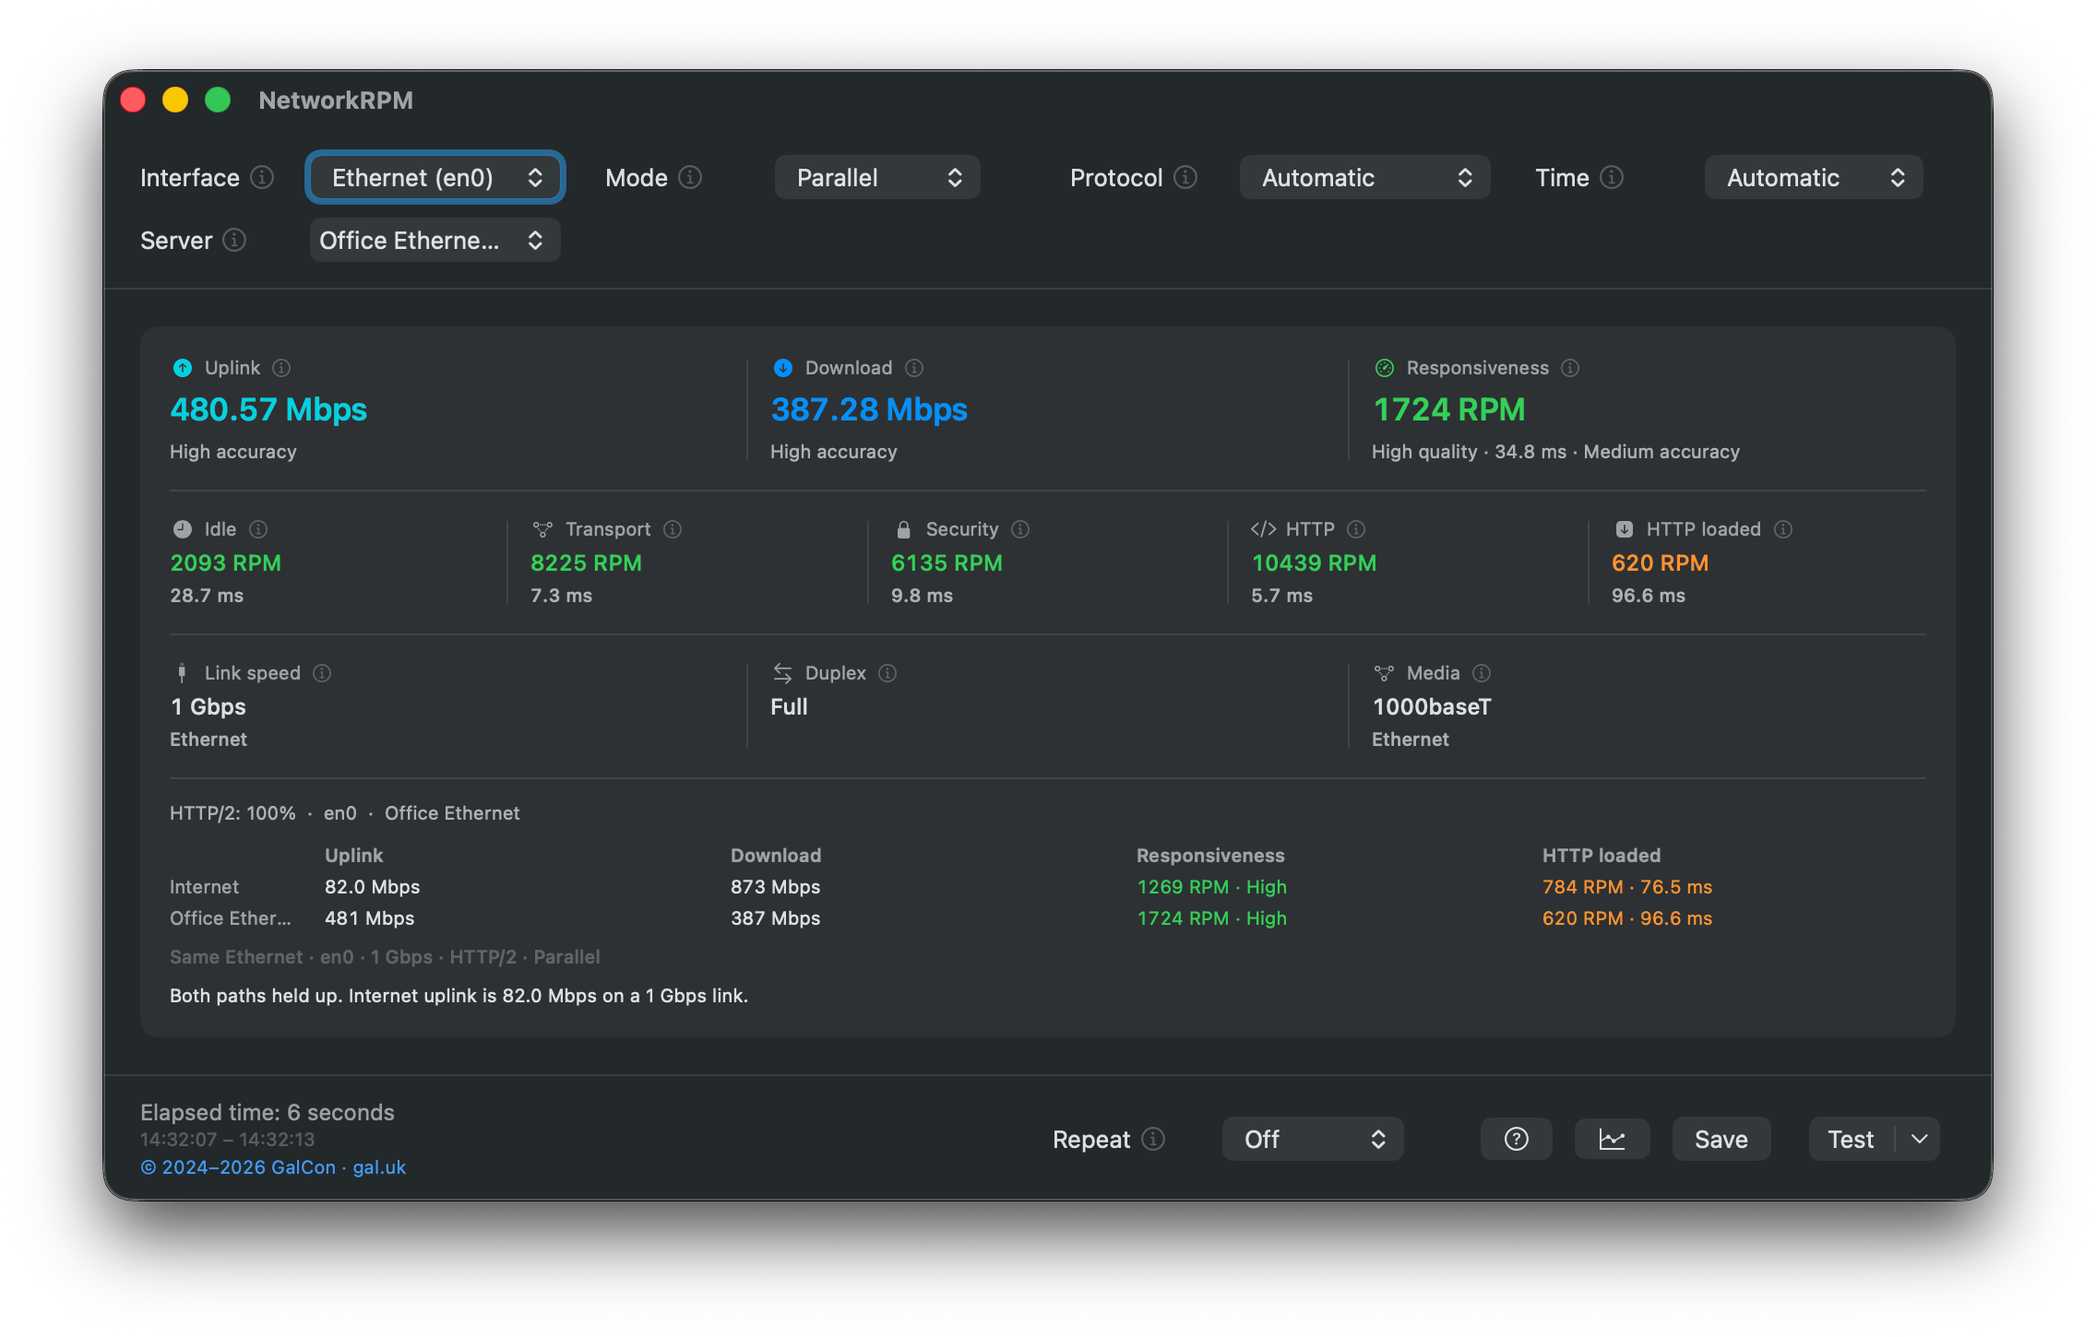
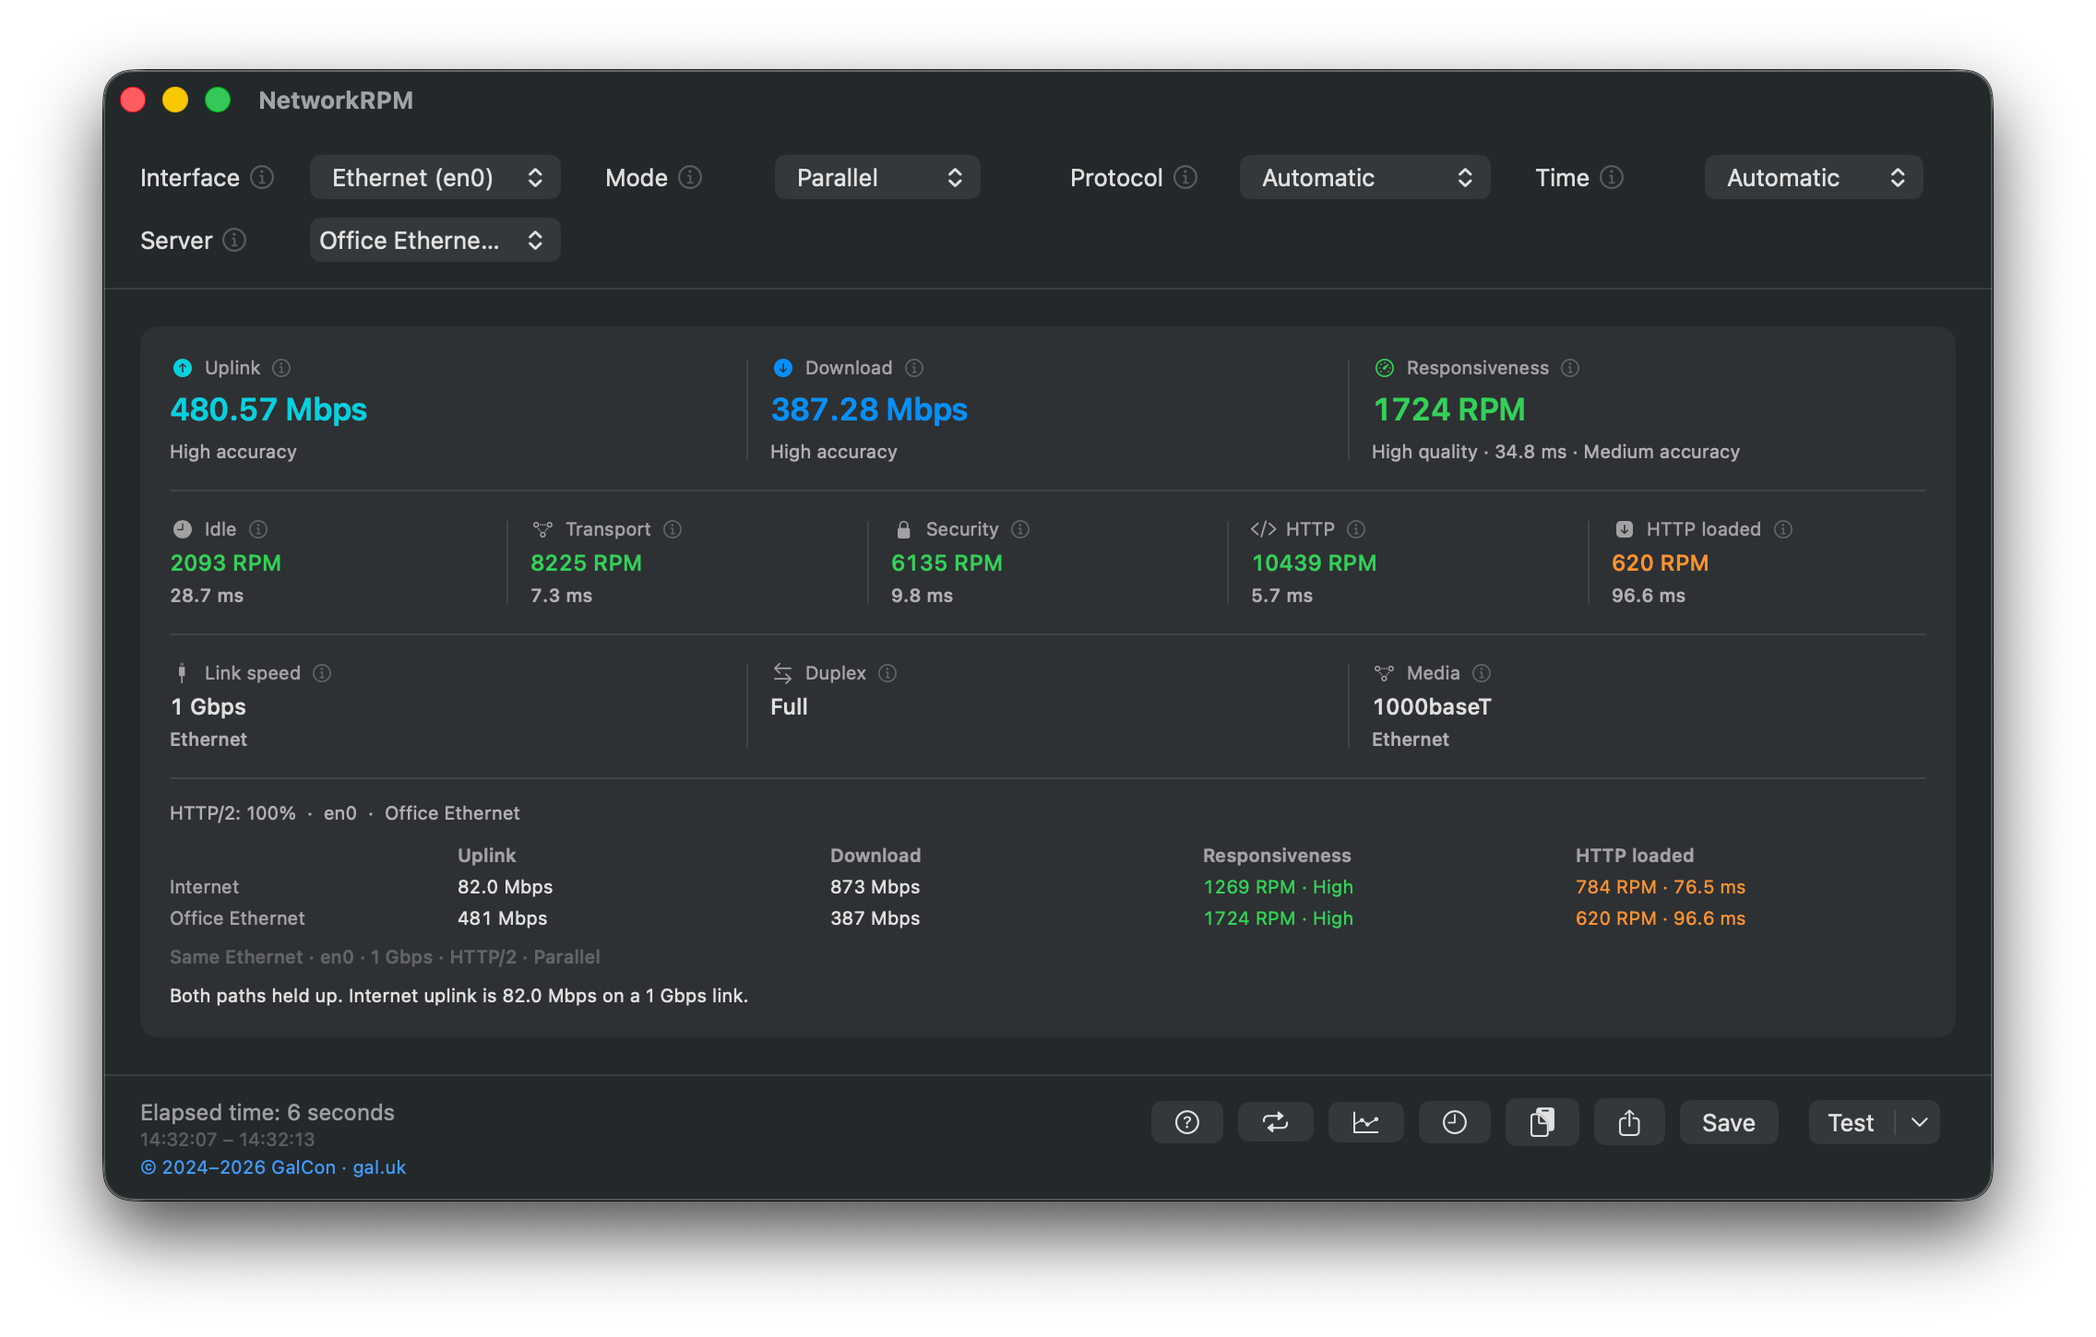
NetworkRPM 2.3.2.104 README and screenshots.

diff --git a/README.md b/README.md
@@ -45,27 +45,28 @@ If you still have the old **NetworkQuality** app, quit it and remove it after in
 
 1. Open **NetworkRPM**.
 2. Adjust options if needed (defaults work out of the box), then click **Test**. Speed and RPM update while the test runs. Click **Stop** to cancel the active run and any remaining repeats; numbers collected so far stay on screen.
-3. **Repeat** (next to Test) schedules multiple runs. When Repeat is on, **Every** sets the idle wait interval between runs. The first **Test** with Repeat on prompts for a CSV destination; each finished run is automatically appended, so stopping early still leaves previously written rows intact.
-4. **Save** (⌘S) writes the latest result as text — including Ethernet link metrics (speed, duplex, media) or Wi-Fi conditions (at start, lowest under load, and completion).
-5. The **chart** button next to Help (or **File → Repeat Graph**) plots the Repeat CSV in real time, displaying RPM and Mbps along with Wi-Fi rate and SNR when recorded. Use **File → Open Repeat CSV…** (or **Open…** on the graph) to review an older file; **Open…** is disabled while Repeat is active.
-6. Hover over the info icon next to any control or result for a plain-English explanation. The **?** button, or **Help → NetworkRPM Help**, opens this page.
+3. **Repeat** (the repeat icon in the footer) turns Repeat mode on and slides in a **Repeat** panel to set how many runs and **Interval**. Click **Start Repeat** (the Test button) to begin. Repeat Graph opens when a schedule starts so you can watch it; that window is the chart only. A run that errors is logged and the schedule continues until **Stop** or the last run. Finished runs are kept in **History**; **Export…** on Repeat Graph (or **File → Export Repeat CSV…**) saves a CSV copy if you want one. Click the repeat icon again to hide the panel and turn Repeat off.
+4. **Copy** (⌘C) puts the latest result on the clipboard. **Share** uses the standard macOS share sheet. **Save** (⌘S) writes the same text to a file — including Ethernet link metrics (speed, duplex, media) or Wi-Fi conditions (at start, lowest under load, and completion).
+5. The **chart** button next to Repeat (or **File → Repeat Graph**) plots Repeat in real time, displaying RPM and Mbps along with Wi-Fi rate and SNR when recorded. **Export…** writes a CSV copy; History already keeps the log. Use **File → Open Repeat CSV…** (or **Open…** on the graph) to review an older file; **Open…** is disabled while Repeat is active.
+6. **History** (the clock button, or **File → History**) keeps the last 20 sessions. **Pin** stores a session permanently so it does not roll off. Double-click a row (or press Return) to **Show** a run or Compare on the main window, or **Open Graph** for a Repeat session. Show and Open Graph wait if a test, Repeat, or Compare is still running, and History explains why. Repeat rows can **Export CSV…**. Internet rows include WAN IP and ISP when known. **Share** uses the standard macOS share sheet. If History cannot be read, the window says so and will not overwrite the file; **Show in Finder** opens it.
 
 <p align="center">
-  <img src="NetworkRPM-server-menu.png" width="66%" alt="Server menu">
+  <img src="NetworkRPM-history.png" width="66%" alt="History">
 </p>
+7. Hover over the info icon next to any control or result for a plain-English explanation. The **?** button, or **Help → NetworkRPM Help**, opens this page.
 
 | Option | What it does |
 | --- | --- |
-| **Interface** | Which connection to test. Automatic is selected by default and follows the Mac’s primary route (displaying the interface name in parentheses). Only active network connections appear in this menu. Bind directly to Wi-Fi or Ethernet to compare those paths. A connected **VPN** is listed separately; those results measure the tunnel rather than the underlying physical link. |
-| **Mode** | Parallel tests upload and download at the same time. Sequential tests them one after the other. |
-| **Protocol** | Automatic chooses for you. Force HTTP/2 or HTTP/3 (QUIC) to compare protocols. HTTP/3 is omitted for servers on the Local Network, as local servers rarely support QUIC. |
-| **Time** | How long **each** run may last. Set a cap, or leave Automatic so it finishes once it collects sufficient samples. Automatic displays total data transferred beside the progress bar. |
-| **Server** | Choose Apple’s internet servers or a local Network Quality server — including **NetworkRPM Server**. Discovered servers appear under **Local Network** with their connection details (`Ethernet · 1 Gbps` or `Wi-Fi`). Use **Custom URL…** at the bottom (or **File → Custom Server URL…**) for manual endpoints. Recents remembers the last 5. |
-| **Test** | Runs the test against the selected server. When targeting a server under **Local Network**, the Test button menu offers **Compare Internet and …** (Repeat must be Off). If that server is connected via Wi-Fi, slow Ethernet, or a VPN, Compare prompts for confirmation first because the server's link becomes the bottleneck. After a comparison, Save exports both runs. Remembered servers that are currently offline are listed under Recents with Test disabled until they return. |
-| **Repeat** | Located next to Test; sets how many times to run. Off runs a single test. While Repeat is active — including the pause between runs — the Mac stays awake so system idle sleep does not throttle a test. The display can still sleep and the screen can lock. |
-| **Every** | Appears next to Repeat when Repeat is on. Sets the idle wait after a run finishes before the next begins. Tests never overlap. |
+| **Interface** | Which connection to test. Each time you open NetworkRPM, the Mac’s primary interface is selected. **Automatic (system default)** follows the Mac’s default route. Only active network connections appear in this menu. Bind directly to Wi-Fi or Ethernet to compare those paths. A connected **VPN** is listed separately; those results measure the tunnel rather than the underlying physical link. |
+| **Mode** | Parallel tests upload and download at the same time. Sequential tests them one after the other. Remembers your last choice. |
+| **Protocol** | Automatic chooses for you. Force HTTP/2 or HTTP/3 (QUIC) to compare protocols. HTTP/3 is omitted for servers on the Local Network, as local servers rarely support QUIC. Remembers your last choice. |
+| **Time** | How long **each** run may last. Set a cap, or leave Automatic so it finishes once it collects sufficient samples. Automatic displays total data transferred beside the progress bar. Remembers your last choice. |
+| **Server** | Choose Apple’s internet servers or a local Network Quality server — including **NetworkRPM Server**. Discovered servers appear under **Local Network** with their connection details (`Ethernet · 1 Gbps` or `Wi-Fi`). Hold **Option** to also list this Mac; after you select it, it stays selected when you release Option. Use **Custom URL…** at the bottom of the Server menu (or **NetworkRPM → Custom Server URL…**) for manual endpoints. Recents remembers the last 5. |
+| **Test** | Runs the test against the selected server. When Repeat is on, this button is **Start Repeat**. When targeting a server under **Local Network**, the Test button menu offers **Compare Internet and …** (hidden while Repeat is on). If that server is connected via Wi-Fi, slow Ethernet, or a VPN, Compare prompts for confirmation first because the server's link becomes the bottleneck. After a comparison, Copy and Save export both runs. Remembered servers that are currently offline are listed under Recents with Test disabled until they return. |
+| **Repeat** | Footer icon next to Help. Highlighted means Repeat is on: a Repeat panel slides in with how many runs and **Interval**. Off (icon not highlighted) hides the panel and runs a single test. Runs and Interval remember the last choice; Repeat itself starts Off each launch. While Repeat is active — including the pause between runs — the Mac stays awake so system idle sleep does not throttle a test. The display can still sleep and the screen can lock. A failed run is stored in the log and the remaining runs still happen. |
+| **Interval** | In the Repeat panel when Repeat is on. Sets the idle wait after a run finishes before the next begins. Tests never overlap. Remembers your last choice. |
 
-The test saturates the selected path for its entire duration — and again on every repeat. Avoid running tests over metered connections or links that others depend on. Save exports the most recent finished run as text, even during the pause between repeats. The Repeat CSV is the log of the whole schedule.
+The test saturates the selected path for its entire duration — and again on every repeat. Avoid running tests over metered connections or links that others depend on. Copy and Save use the most recent finished run as text, even during the pause between repeats. History keeps the Repeat log; Export… on Repeat Graph saves a CSV copy.
 
 <p align="center">
   <img src="NetworkRPM-repeat-graph.png" width="66%" alt="Repeat Graph">
@@ -103,11 +104,9 @@ Colour helps you interpret results at a glance:
 ### Set up the server
 
 1. Install **NetworkRPM Server** on a second Mac on the same network. It is a separate download from NetworkRPM.
-2. Open it. The server selects an available port and starts automatically. The large name is this Mac’s Sharing name — which is how NetworkRPM lists it under **Local Network** (rather than by raw `hostname:port`). Interface, link speed, and local IP appear below the **Interface** popup. Copy the configuration URL only if Bonjour is blocked on your network; clicking **Start** chooses a new port, so older copied URLs will expire.
-3. Wait until the status LED turns **green** (running). Yellow indicates starting; blue indicates a client is actively testing against this Mac; red indicates stopped.
+2. Open it. The server selects an available port and starts automatically. The large name is this Mac’s Sharing name — which is how NetworkRPM lists it under **Local Network** (rather than by raw `hostname:port`). The current adapter, link speed, and local IP appear in the window. Copy the configuration URL only if Bonjour is blocked on your network; clicking **Start** chooses a new port, so older copied URLs will expire.
+3. Wait until the status LED turns **green** (running). Yellow indicates starting; blue indicates a client is actively testing against this Mac; red indicates stopped. If the server never begins accepting connections, the LED returns to red with an error — click **Start** to try again.
 4. Leave the window open while you want others to test against this Mac. Closing the window quits the app and stops the server. Enable **Launch at Login** to start it automatically upon login.
-
-**Interface** binds the server to a specific network adapter — useful on dual-homed Macs to ensure clients test over the intended Ethernet link. Automatic follows the default route.
 
 While running, **Prevent sleep while serving** (enabled by default) keeps the Mac awake so idle power management does not throttle tests from other Macs. The display can still sleep and the screen can lock. Uncheck this in the server window if you prefer to allow sleep.
 
@@ -126,8 +125,8 @@ NetworkRPM runs two consecutive tests in a single automated session — first ag
 
 - **Uplink & Download** — compares bandwidth across both paths to reveal internet capacity versus local infrastructure limits.
 - **Responsiveness & HTTP loaded** — compares RPM and loaded latency side-by-side to highlight where delays occur under traffic.
-- **Automated verdict** — analyzes the results to explain which hop is the limiting factor (for example, *“The local path held up. The internet path did not”* or *“Both paths held up”*), accompanied by WAN uplink headroom notes on fast local connections.
-- **Unified export** — clicking **Save** (⌘S) exports full metrics from both runs along with the comparison verdict in a single file.
+- **Automated verdict** — analyzes the results to explain which hop is the limiting factor (for example, *“The local path held up. The internet path did not”* or *“Both paths held up”*), accompanied by WAN uplink headroom notes on fast local connections. A line under the verdict notes when the far Mac is on Wi-Fi, slow Ethernet, or a VPN, or when its link type is unknown.
+- **Unified export** — **Copy** (⌘C) or **Save** (⌘S) exports full metrics from both runs along with the comparison verdict.
 
 <p align="center">
   <img src="NetworkRPM-compare.png" width="66%" alt="Compare Internet and Local Network">
@@ -135,15 +134,17 @@ NetworkRPM runs two consecutive tests in a single automated session — first ag
 
 If the remote server is connected via Wi-Fi, slow Ethernet (< 1 Gbps), or a VPN, Compare prompts for confirmation before starting because the server's link can become the bottleneck.
 
+If the Local Network run fails, is stopped, or the server disappears after the Internet test, NetworkRPM keeps the Internet results on screen and in History instead of discarding them.
+
 For the most accurate diagnostics, connect the **server** Mac to gigabit (or faster) Ethernet, and place the **tester** Mac on the link you want to evaluate. Two Macs testing across Wi-Fi measure two wireless links sharing an access point rather than the building infrastructure. Likewise, a 100 Mbps adapter on the server caps the entire test at 100 Mbps. NetworkRPM flags Wi-Fi or slow Ethernet when reported by the server; otherwise Compare indicates that the remote link type could not be determined.
 
 ### Stop the server
 
-Click **Stop** to take the server down without quitting the app (the LED turns red). Click **Start** to bring it back online on a new port. Closing the window or choosing Quit also stops the server.
+Click **Stop** to take the server down without quitting the app (the LED turns red and the configuration URL clears). Click **Start** to bring it back online on a new port. Closing the window or choosing Quit also stops the server.
 
 ### If the server does not appear
 
-Bonjour discovery can occasionally be restricted on enterprise or segmented networks. If the server does not appear automatically, copy the configuration URL from the server Mac (using the copy icon next to it), then on the testing Mac choose **Custom URL…** from the **Server** popup and paste it. NetworkRPM automatically handles the self-signed TLS certificate required for local testing.
+Bonjour discovery can occasionally be restricted on enterprise or segmented networks, or if **Local Network** permission is denied in System Settings. If NetworkRPM reports that it could not browse the Local Network, open **System Settings → Privacy & Security → Local Network** and allow NetworkRPM. If the server still does not appear, copy the configuration URL from the server Mac (using the copy icon next to it), then on the testing Mac choose **Custom URL…** from the **Server** popup and paste it. NetworkRPM automatically handles the self-signed TLS certificate required for local testing.
 
 ## Deploying
 
@@ -154,7 +155,7 @@ Each installer pkg installs its app into `/Applications`. No restart is required
 | NetworkRPM | `com.gal.NetworkQuality` | `/Applications/NetworkRPM.app` |
 | NetworkRPM Server | `com.gal.NetworkRPMServer` | `/Applications/NetworkRPM Server.app` |
 
-**Munki / Jamf:** Import the pkgs from [Releases](https://github.com/ofirgalcon/NetworkRPM/releases/latest). The pkg receipt and the app’s short version match the GitHub release tag. To pin a specific version, use the versioned download URL (`.../releases/download/vX.Y.Z/NetworkRPM.pkg` or `.../releases/download/vX.Y.Z/NetworkRPM-Server.pkg`).
+**Munki / Jamf:** Import the pkgs from [Releases](https://github.com/ofirgalcon/NetworkRPM/releases/latest). The GitHub release tag is the NetworkRPM version (`2.3.2.N`). NetworkRPM’s pkg receipt version matches that tag. NetworkRPM Server ships on the same tag with its own short version (`1.1.2.N`). Compare the server pkg against receipt `com.gal.NetworkRPMServer`, not the GitHub tag. To pin a specific suite, use the versioned download URL (`.../releases/download/vX.Y.Z.N/NetworkRPM.pkg` or `.../releases/download/vX.Y.Z.N/NetworkRPM-Server.pkg`).
 
 **Update checks:** Both apps check GitHub for updates approximately once per day, and **Check for Updates…** performs an immediate check on demand. They notify of updates but never overwrite the running app. To disable automatic checks, set `EnableUpdateChecks` to `false` in each app’s preference domain (omitting the key or setting `true` leaves checks enabled). A configuration profile with a Custom Settings payload for these domains works identically.
 
@@ -167,4 +168,4 @@ sudo defaults write /Library/Preferences/com.gal.NetworkRPMServer EnableUpdateCh
 
 Copyright © 2024–2026 [GalCon](https://www.gal.uk).
 
-Free to use and redistribute at no charge — for personal or commercial use — provided you credit GalCon and include a link to [gal.uk](https://www.gal.uk). You may not sell the app.
+Free to use and redistribute at no charge — for personal or commercial use — provided you credit GalCon and include a link to [gal.uk](https://www.gal.uk). Not for resale.
